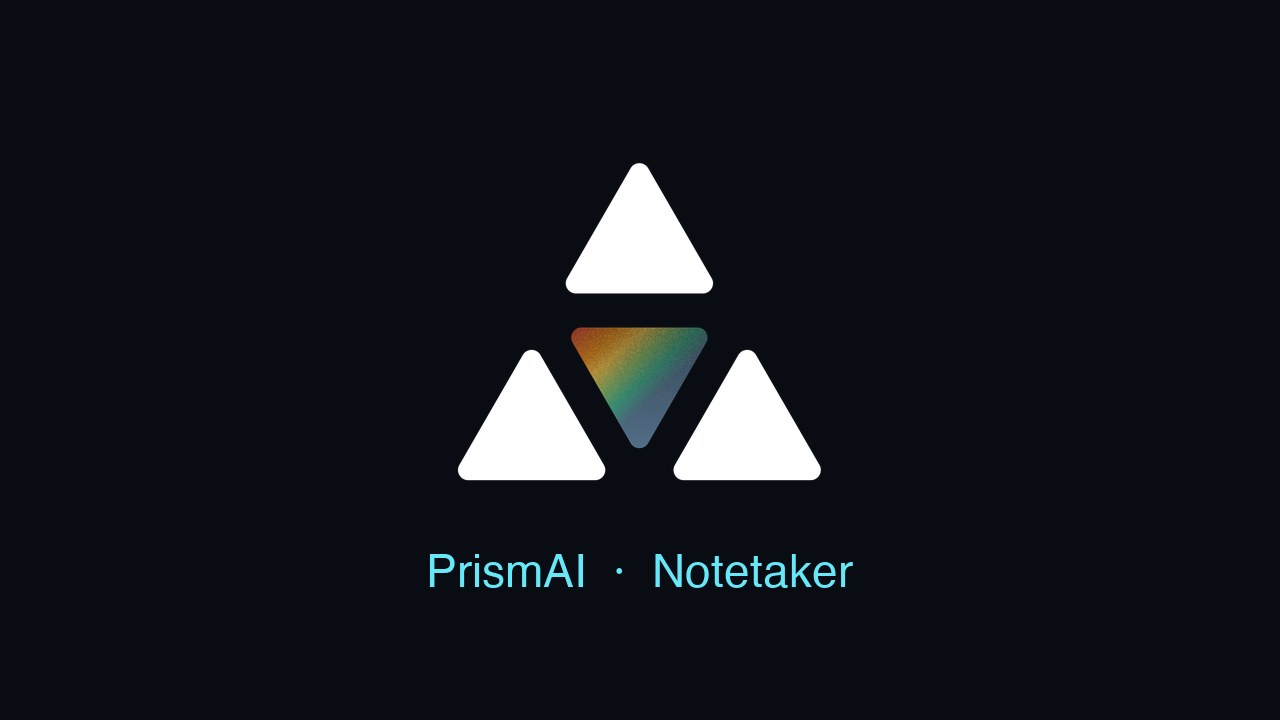
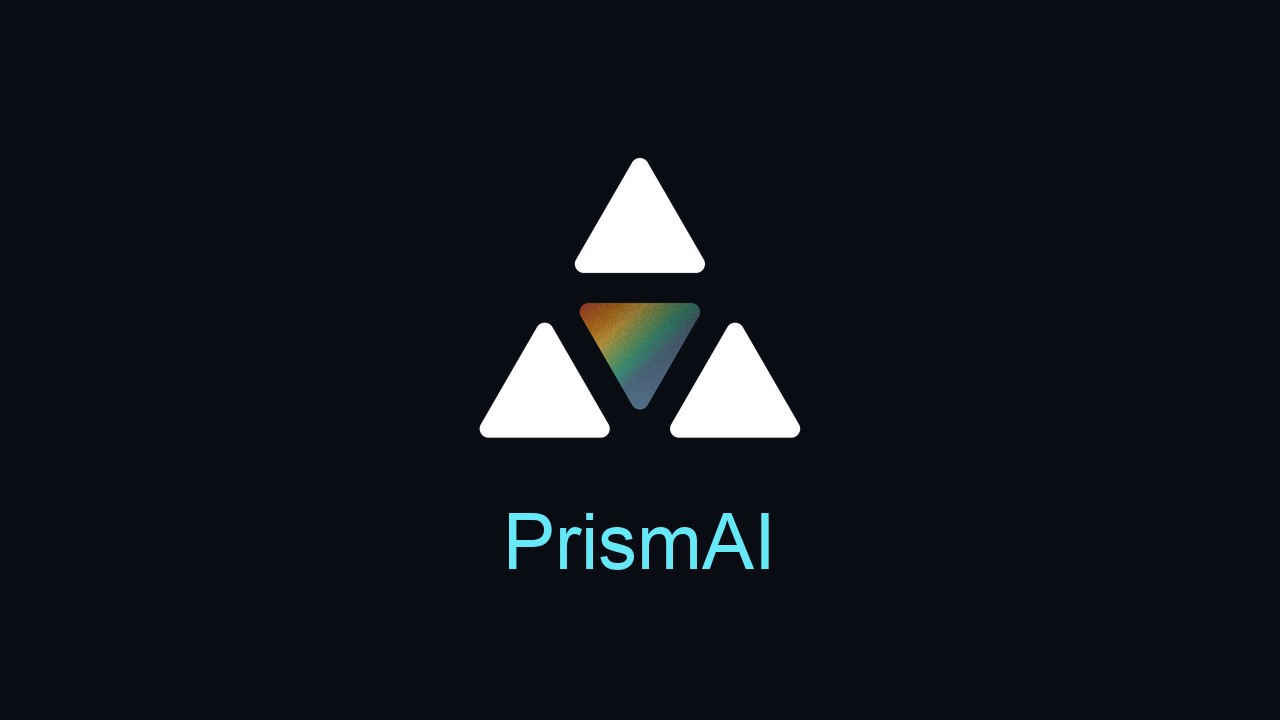
Bot branding: drop 'Notetaker' — join as just 'PrismAI'
BOT_DISPLAY_NAME 'PrismAI Notetaker' -> 'PrismAI' (the in-meeting participant
name), and regenerated the camera tile (backend/assets/bot_tile.jpg) to show the
prism logo + 'PrismAI' instead of 'PrismAI · Notetaker'. Self-name matching is
unchanged (startswith('prismai')), so it still recognizes any prior name.

733 tests pass.

Changed region(s): [[0.3438, 0.3667, 0.6562, 0.6722], [0.3125, 0.7028, 0.6562, 0.825], [0.5, 0.2139, 0.5312, 0.2444]]

diff --git a/backend/recall_routes.py b/backend/recall_routes.py
@@ -61,10 +61,10 @@ RECALL_WEBHOOK_SECRET = os.getenv("RECALL_WEBHOOK_SECRET", "")
 DEEPGRAM_API_KEY = os.getenv("DEEPGRAM_API_KEY", "")
 
 # Branded bot join (#4): the in-meeting display name + a static logo tile shown as
-# the bot's camera output so it reads as "PrismAI Notetaker" with our mark rather
-# than a bare "P" initial. The tile is a 1280x720 JPEG (Recall requires 16:9,
-# <=1.3MB) generated from the app logo (backend/assets/bot_tile.jpg).
-BOT_DISPLAY_NAME = os.getenv("PRISM_BOT_DISPLAY_NAME", "PrismAI Notetaker")
+# the bot's camera output so it reads as "PrismAI" with our mark rather than a bare
+# "P" initial. The tile is a 1280x720 JPEG (Recall requires 16:9, <=1.3MB)
+# generated from the app logo (backend/assets/bot_tile.jpg).
+BOT_DISPLAY_NAME = os.getenv("PRISM_BOT_DISPLAY_NAME", "PrismAI")
 # Live-streaming keyterm grounding is OFF by default — it broke Deepgram nova-3
 # streaming transcription (no transcript.data events / empty transcript). Grounding
 # still applies in the async batch re-transcription path. Flip to "1" to re-test.

diff --git a/backend/realtime_routes.py b/backend/realtime_routes.py
@@ -184,7 +184,7 @@ def _looks_like_bot_participant(name: str, raw: dict) -> bool:
     nm = (name or "").strip().lower()
     if nm in _BOT_SELF_NAMES:
         return True
-    # Tolerate the branded display name ("PrismAI Notetaker") and stand-in names
+    # Tolerate the branded display name ("PrismAI") and stand-in names
     # ("<owner> (PrismAI stand-in)") — both are our bot, not a human.
     return nm.startswith("prismai") or "(prismai stand-in)" in nm
 

diff --git a/backend/tests/test_recall_routes.py b/backend/tests/test_recall_routes.py
@@ -373,7 +373,7 @@ class BrandedBotTestCase(unittest.TestCase):
     def test_default_display_name_is_branded(self):
         body = recall_routes._recall_bot_create_json("https://meet/x", "rt", "wh")
         self.assertEqual(body["bot_name"], recall_routes.BOT_DISPLAY_NAME)
-        self.assertEqual(recall_routes.BOT_DISPLAY_NAME, "PrismAI Notetaker")
+        self.assertEqual(recall_routes.BOT_DISPLAY_NAME, "PrismAI")
 
     def test_explicit_bot_name_wins(self):
         body = recall_routes._recall_bot_create_json(